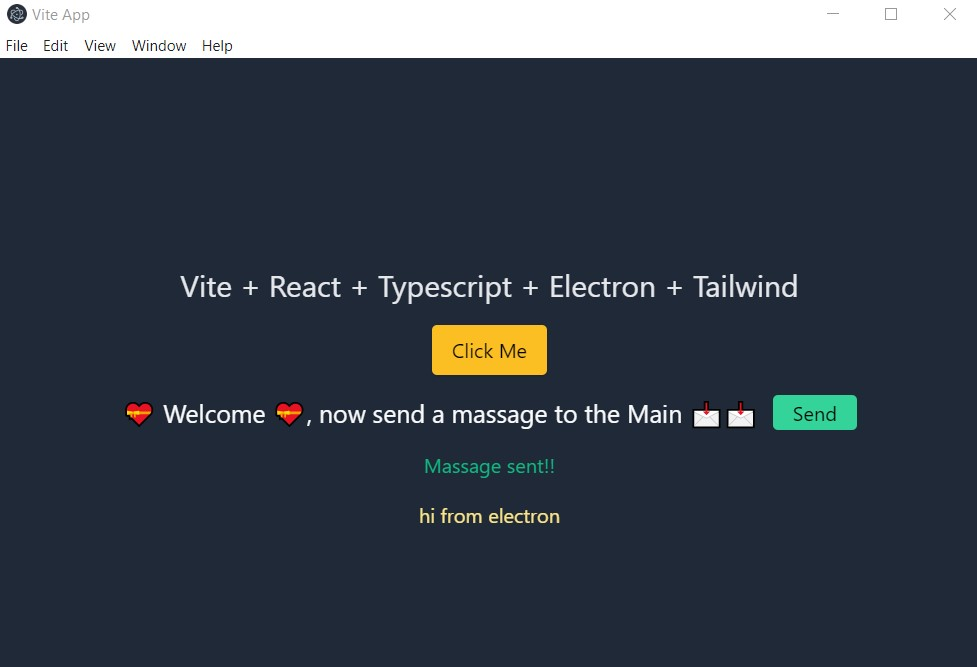
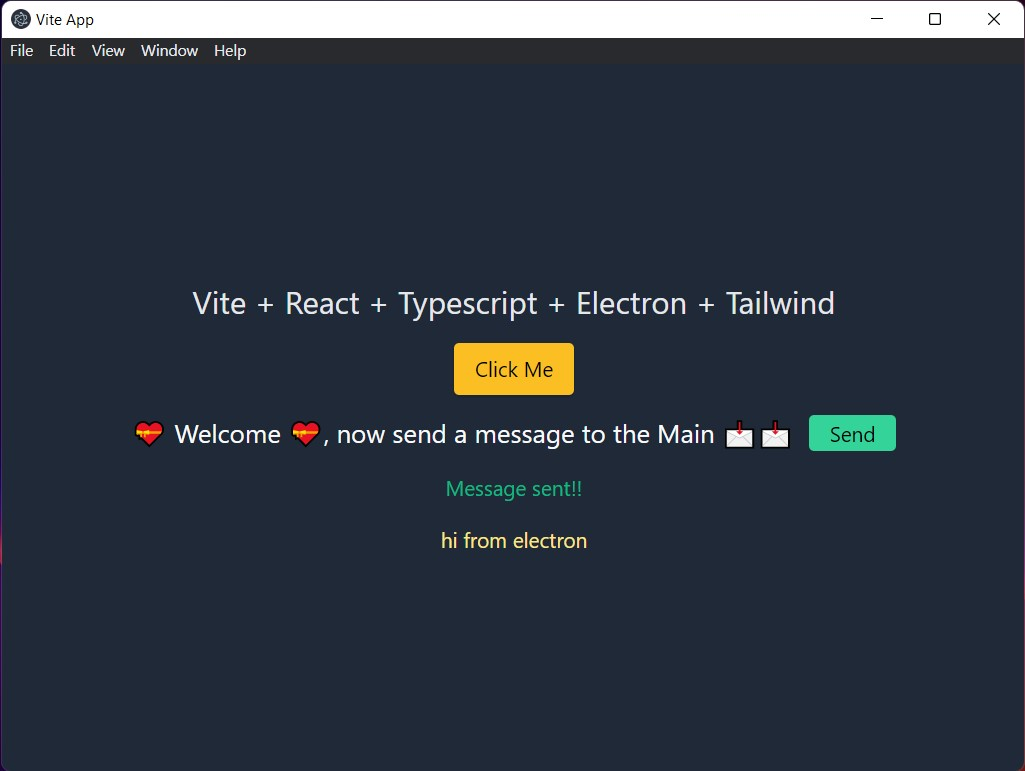
Fix a typo

diff --git a/src/App.tsx b/src/App.tsx
@@ -44,7 +44,7 @@ function App() {
       {isOpen && (
         <div className="flex flex-col space-y-4 items-center">
           <div className="flex space-x-3">
-            <h1 className="text-xl text-gray-50">💝 Welcome 💝, now send a massage to the Main 📩📩</h1>
+            <h1 className="text-xl text-gray-50">💝 Welcome 💝, now send a message to the Main 📩📩</h1>
             <button
               onClick={sendMessageToElectron}
               className=" bg-green-400 rounded px-4 py-0 focus:outline-none hover:bg-green-300"
@@ -54,7 +54,7 @@ function App() {
           </div>
           {isSent && (
             <div>
-              <h4 className=" text-green-500">Massage sent!!</h4>
+              <h4 className=" text-green-500">Message sent!!</h4>
             </div>
           )}
           {fromMain && (
